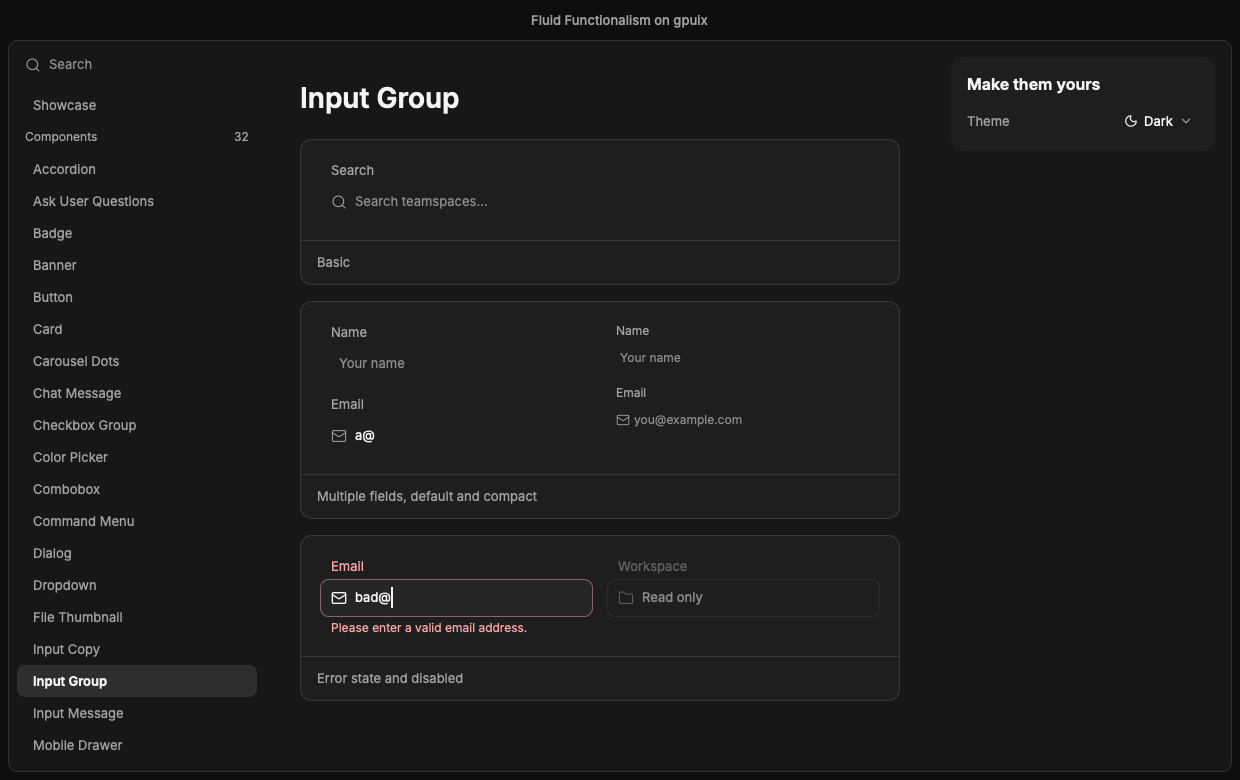
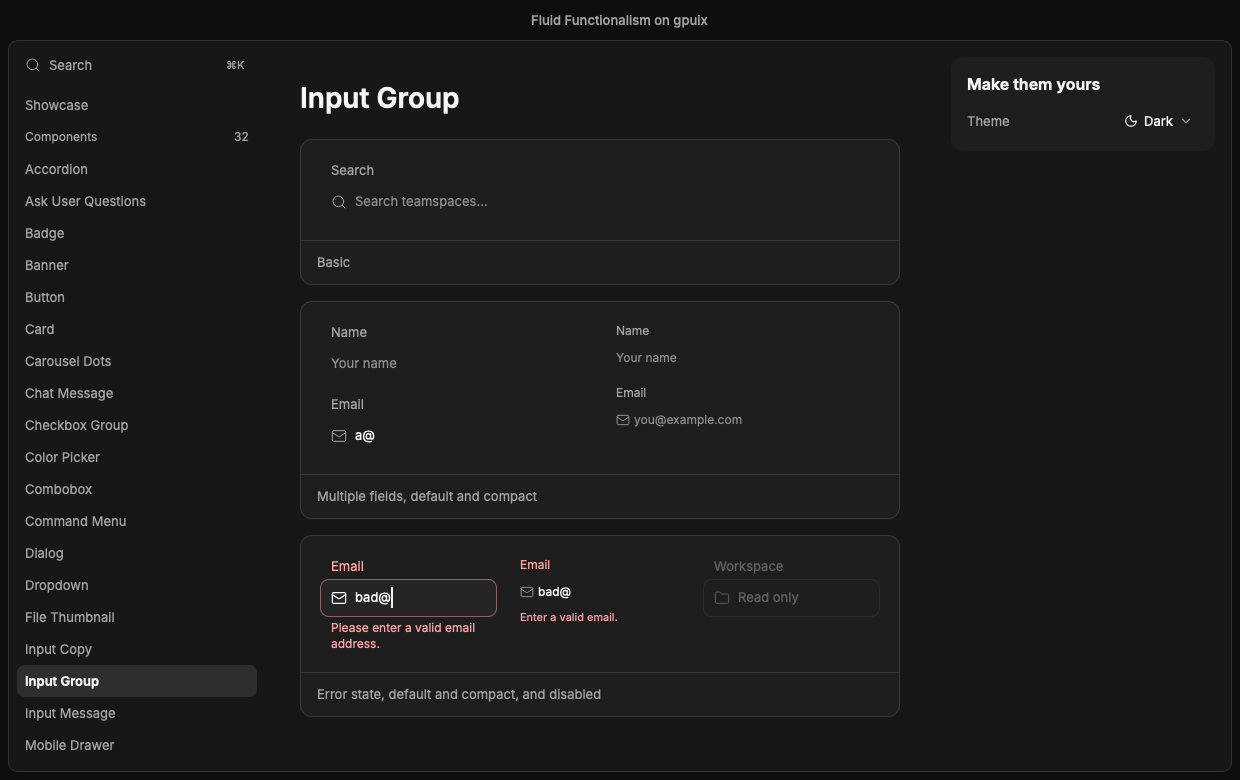
InputGroup: disabled field leaves the Tab order, compact error caption is 11/14, fill no longer covers the content

diff --git a/scripts/check-input-group.tsx b/scripts/check-input-group.tsx
@@ -1,0 +1,80 @@
+/**
+ * Input group checks through the offscreen renderer: PASS / FAIL lines.
+ *
+ *   bun scripts/check-input-group.tsx
+ *
+ * - Tab never lands on the disabled field.
+ * - The error caption is 12/16 at the default step and 11/14 at the compact one.
+ */
+import { createTestRoot } from "@gpuix/solid/testing";
+import { App } from "../src/app";
+import { loadDemos } from "../src/lib/demo";
+import { fonts } from "../src/lib/fonts";
+import { setThemeChoice } from "../src/lib/theme";
+
+const sleep = (ms: number) => new Promise((resolve) => setTimeout(resolve, ms));
+const test = createTestRoot({ width: 1240, height: 780, fonts });
+const renderer = test.renderer;
+
+async function settle(ms: number) {
+	const until = performance.now() + ms;
+	do {
+		renderer.flush();
+		renderer.dispatchNativeEvents();
+		await sleep(16);
+	} while (performance.now() < until);
+	renderer.flush();
+	renderer.dispatchNativeEvents();
+}
+function element(testId: string) {
+	const found = renderer.findByTestId(testId);
+	if (found === undefined) throw new Error(`no element ${testId}`);
+	return found;
+}
+function caption(text: string) {
+	const node = renderer.findByText(text);
+	if (node === undefined || node.parentId === null)
+		throw new Error(`no text ${text}`);
+	const found = renderer.getElement(node.parentId);
+	if (found === undefined) throw new Error(`no <text> for ${text}`);
+	return `${found.style.fontSize}/${found.style.lineHeight}`;
+}
+let failed = false;
+function report(name: string, ok: boolean, detail: string) {
+	if (!ok) failed = true;
+	console.log(`${ok ? "PASS" : "FAIL"} ${name}: ${detail}`);
+}
+
+const demos = await loadDemos();
+setThemeChoice("dark");
+test.render(() => <App demos={demos} initialPage="input-group" />);
+await settle(800);
+
+const disabledInput = element("disabled-input").id;
+const reached = new Set<number>();
+for (let presses = 0; presses < 40; presses++) {
+	renderer.simulateKeystrokes("tab");
+	await settle(60);
+	const focused = renderer.getFocusedElementId();
+	if (focused !== null) reached.add(focused);
+}
+report(
+	"disabled field is out of the Tab order",
+	!reached.has(disabledInput),
+	`Tab reached ${reached.size} elements, the disabled input ${reached.has(disabledInput) ? "among them" : "not among them"}`,
+);
+
+const defaultCaption = caption("Please enter a valid email address.");
+report(
+	"default error caption is 12/16",
+	defaultCaption === "12/16",
+	defaultCaption,
+);
+const compactCaption = caption("Enter a valid email.");
+report(
+	"compact error caption is 11/14",
+	compactCaption === "11/14",
+	compactCaption,
+);
+
+process.exit(failed ? 1 : 0);

diff --git a/src/components/input-group.tsx b/src/components/input-group.tsx
@@ -31,7 +31,7 @@ const steps = {
 		icon: 14,
 		labelInset: 8,
 		text: scale.bodyCompact,
-		caption: scale.microCompact,
+		caption: scale.captionCompact,
 	},
 } as const;
 
@@ -184,7 +184,7 @@ export function InputField(props: {
 					paddingRight: step().padX,
 				}}
 			>
-				{/* The fill is its own layer, and pass-through: an absolute box paints above its in-flow siblings, as in a browser, and would take the press meant for the input. */}
+				{/* The fill is its own layer, and pass-through: an absolute box paints above its in-flow siblings, as in a browser, so the icon and input are `position: relative` to paint over it, and it must not take the press meant for the input. */}
 				<div
 					style={{
 						position: "absolute",
@@ -202,12 +202,14 @@ export function InputField(props: {
 				/>
 				<Show when={props.icon}>
 					{(name: Accessor<IconRef>) => (
-						<Icon
-							name={name()}
-							size={step().icon}
-							strokeWidth={lit() ? 2 : 1.5}
-							color={lit() ? color.foreground : color.mutedForeground}
-						/>
+						<div style={{ position: "relative", display: "flex", flexShrink: 0 }}>
+							<Icon
+								name={name()}
+								size={step().icon}
+								strokeWidth={lit() ? 2 : 1.5}
+								color={lit() ? color.foreground : color.mutedForeground}
+							/>
+						</div>
 					)}
 				</Show>
 				<input
@@ -220,7 +222,7 @@ export function InputField(props: {
 					aria-label={props.label}
 					value={props.value}
 					placeholder={props.placeholder}
-					readOnly={props.disabled}
+					disabled={props.disabled}
 					theme={{
 						text: color.foreground,
 						textMuted: color.mutedForeground,
@@ -237,6 +239,7 @@ export function InputField(props: {
 						props.onChange(event.value);
 					}}
 					style={{
+						position: "relative",
 						flexGrow: 1,
 						minWidth: 0,
 						height: 24,

diff --git a/src/demos/input-group.tsx b/src/demos/input-group.tsx
@@ -72,7 +72,7 @@ export function Demo() {
 					</InputGroup>
 				</div>
 			</DemoCard>
-			<DemoCard title="Error state and disabled">
+			<DemoCard title="Error state, default and compact, and disabled">
 				<div style={{ display: "flex", flexDirection: "row", gap: 16 }}>
 					<InputGroup>
 						<InputField
@@ -84,6 +84,18 @@ export function Demo() {
 							value={errorEmail()}
 							onChange={setErrorEmail}
 							error="Please enter a valid email address."
+						/>
+					</InputGroup>
+					<InputGroup size="compact">
+						<InputField
+							testId="compact-error"
+							index={0}
+							label="Email"
+							placeholder="you@example.com"
+							icon="mail"
+							value={errorEmail()}
+							onChange={setErrorEmail}
+							error="Enter a valid email."
 						/>
 					</InputGroup>
 					<InputGroup>

diff --git a/src/lib/theme.ts b/src/lib/theme.ts
@@ -269,6 +269,7 @@ export const type = {
 	body: { fontSize: 13, lineHeight: 20 },
 	bodyCompact: { fontSize: 12, lineHeight: 18 },
 	caption: { fontSize: 12, lineHeight: 16 },
+	captionCompact: { fontSize: 11, lineHeight: 14 },
 	micro: { fontSize: 11, lineHeight: 14 },
 	microCompact: { fontSize: 10, lineHeight: 12 },
 } as const;

diff --git a/drift/input-group.md b/drift/input-group.md
@@ -8,13 +8,6 @@ One entry per place the port looks or behaves differently from the source, whate
 (transforms, intrinsic width, variable fonts) get a one-line entry here that links to the README row instead of
 repeating it.
 
-## The compact error message is a size too small
-
-- **Cause:** `not ported yet` (the wrong token is used). A bug, listed in the report.
-- **Original:** compact uses the caption role at its compact step, 11px on a 14px line (`input-group.tsx:282`; `lib/type-scale.ts`).
-- **Port:** `steps.compact.caption` is `scale.microCompact`, 10px on a 12px line (`input-group.tsx:34`). `lib/theme.ts:265-274` has no compact caption token. Default is right: `scale.caption`, 12/16.
-- **Fidelity:** approximated (1px smaller, 2px shorter line).
-
 ## Fill, ring and icon colour change instantly
 
 - **Cause:** `not ported yet`.
@@ -22,14 +15,6 @@ repeating it.
 - **Port:** `fill()` switches the layer's `backgroundColor` and `outlineColor` at once (`input-group.tsx:122-132,188-202`), and `Icon` is used without its `fade` prop (`:205-211`, `lib/icon.tsx:11`). The fork animates colours, `backgroundColor` and `outlineColor` included (`~/code/fdarian/gpuix/FORK.md:814-815`).
 - **Fidelity:** approximated (the 80 ms fade is dropped). The stroke 1.5 to 2 is instant by design: README "icon stroke 1.5 to 2 on hover".
 - **Components it hits:** input-copy, input-message.
-
-## A disabled field is read-only, not disabled
-
-- **Cause:** `not ported yet`. A bug, listed in the report.
-- **Original:** `Field.Root disabled` disables the input, which leaves the Tab order (`input-group.tsx:177-189`).
-- **Port:** `readOnly={props.disabled}` (`input-group.tsx:223`). The wrapper's `pointerEvents: "none"` stops the mouse, but Tab still focuses the field and shows the caret. gpuix has `disabled` on inputs, never focusable (`FORK.md:451,481`).
-- **Fidelity:** approximated.
-- **Components it hits:** input-message (textarea, `readOnly` at `input-message.tsx:1058`).
 
 ## A press on the field's padding or label focuses on release
 
@@ -68,5 +53,5 @@ repeating it.
 
 - **Cause:** `port choice` (the demo is a showcase card, not a docs page; reason not stated beyond that).
 - **Original:** `app/docs/input-group/page.tsx`: Basic (one field, Search icon), Multiple Fields (Name, Email with Mail icon), Error State (`bad@`), each in a `ComponentPreview` with code, then two props tables.
-- **Port:** the same three, in `DemoCard`s (`src/demos/input-group.tsx:20,33,75`), with the default and a compact group side by side (`:33-74`) and the error field next to a disabled one (`:75-100`). Extras: compact, disabled. `labelHidden` is not shown in either demo. Code snippets and props tables are not ported.
-- **Fidelity:** all source variants present; two extra.
+- **Port:** the same three, in `DemoCard`s (`src/demos/input-group.tsx`), with the default and a compact group side by side and the default error field next to a compact one and a disabled one. Extras: compact, compact error, disabled. `labelHidden` is not shown in either demo. Code snippets and props tables are not ported.
+- **Fidelity:** all source variants present; three extra.
